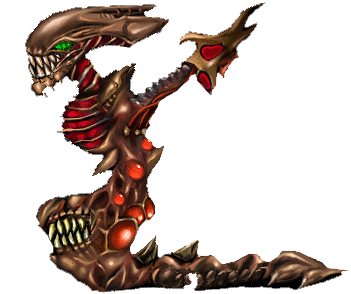
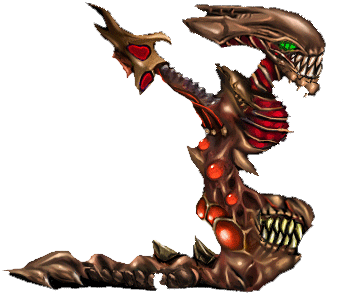
implementaçao de funcoes do boss

diff --git a/TDJ_ProjectoFinal/TDJ_ProjectoFinal/entidades/NPC.cs b/TDJ_ProjectoFinal/TDJ_ProjectoFinal/entidades/NPC.cs
@@ -14,7 +14,7 @@ namespace TDJ_ProjectoFinal.entidades
     {
         Hunter,
         Bomber,
-        Mothership
+        Mothership,
     }
 
     public class NPC : FlyingEntity
@@ -28,6 +28,7 @@ namespace TDJ_ProjectoFinal.entidades
         public NPC(ContentManager contents, string assetName, TipoNave tipoNave, int direcao, float Scl, Random random) 
             : base(contents, assetName)
         {
+            
             base.spriteEffects = SpriteEffects.FlipHorizontally;
             this.tipoNave = tipoNave;
             this.Scl(Scl);
@@ -75,7 +76,8 @@ namespace TDJ_ProjectoFinal.entidades
                     
                     break;
                 case TipoNave.Mothership:
-                    base.position.X -= Camera.speed / 4;
+                    base.position.Y = (float)Math.Cos(posY) + 0.1f;
+                    //base.position.X = Camera.worldWidth;
                     break;
                 default:
                     base.position.X -= Camera.speed;
@@ -96,11 +98,22 @@ namespace TDJ_ProjectoFinal.entidades
 
             if (contador >= shootTime)
             {
-                if (this.tipoNave == TipoNave.Hunter || this.tipoNave == TipoNave.Mothership)
+              
+                if (this.tipoNave == TipoNave.Hunter || this.tipoNave==TipoNave.Mothership)
                 {
-                    //Caças e Nave Mãe disparam balas
-                    scene.AddSprite(new Bala(this.cManager, "balainimigo", -1, OrigemBala.inimigo, DireccaoBala.EmFrente).Scl(0.09f).
-                        At(new Vector2(position.X - 0.4f, position.Y - 0.05f)));
+                    if (this.tipoNave == TipoNave.Mothership)
+                    {
+                        //scene.AddSprite(new Bala(this.cManager, "balainimigo", 1, OrigemBala.boss, DireccaoBala.EmFrente).Scl(0.09f).
+                          //  At(new Vector2(position.X - 0.4f, position.Y - 0.05f)));
+                        scene.AddInimigo(new Missil(this.cManager, "missil", TipoMissil.Teleguiado, -1, OrigemBala.inimigo, this.scene.player).Scl(0.15f).
+                            At(this.position));
+                    }
+                    else
+                    {
+                        //Caças e Nave Mãe disparam balas
+                        scene.AddSprite(new Bala(this.cManager, "balainimigo", -1, OrigemBala.inimigo, DireccaoBala.EmFrente).Scl(0.09f).
+                            At(new Vector2(position.X - 0.4f, position.Y - 0.05f)));
+                    }
                 }
                 else
                 {

diff --git a/TDJ_ProjectoFinal/TDJ_ProjectoFinal/Game1.cs b/TDJ_ProjectoFinal/TDJ_ProjectoFinal/Game1.cs
@@ -136,7 +136,7 @@ namespace TDJ_ProjectoFinal
                     
                 }
             }
-
+            //muda para cena3
             if(Camera.target.X >= 25f && Cenas[1].active==true)
             {
                 player.position.X += 0.02f;
@@ -147,8 +147,15 @@ namespace TDJ_ProjectoFinal
                     cena3();
                 }
             }
-            
-       
+
+
+            if (Cenas.Count == 3)
+            {
+                if (Cenas[2].active == true && Camera.target.X >= 2f)
+                {
+                    Camera.speed = 0f;
+                }
+            }
 
             base.Update(gameTime);
         }
@@ -231,7 +238,7 @@ namespace TDJ_ProjectoFinal
 
             Cenas[2].AddSprite(new Sprite(Content, "fundoFinal").Scl(45f).
                At(new Vector2(Camera.worldWidth, 0f)));
-            Cenas[2].AddInimigo(new Sprite(Content, "boss").Scl(2f).At(new Vector2(Camera.worldWidth,0f)));
+            Cenas[2].AddInimigo(new NPC(Content, "boss",TipoNave.Mothership,0,2f,random).At(new Vector2(3f,0f)));
             player = new Player(Content, "nave", TipoBala.Simples);
             Cenas[2].AddSprite(player.Scl(0.62f));
             player.position.X = Camera.target.X - (Camera.worldWidth / 2) + 0.1f;

diff --git a/TDJ_ProjectoFinal/TDJ_ProjectoFinal/entidades/Bala.cs b/TDJ_ProjectoFinal/TDJ_ProjectoFinal/entidades/Bala.cs
@@ -20,7 +20,8 @@ namespace TDJ_ProjectoFinal
     public enum OrigemBala
     {
         inimigo,
-        player
+        player,
+        boss
     }
     class Bala : FlyingEntity
     {
@@ -34,6 +35,9 @@ namespace TDJ_ProjectoFinal
             : base(contents, assetName)
         {
             base.spriteEffects = direccao > 0 ? SpriteEffects.None : SpriteEffects.FlipHorizontally;
+            if (origemBala == OrigemBala.boss)
+                this.speed = -0.05f;
+            else
             this.speed = Camera.speed * 9;
             this.direccaobala = direccaobala;
             this.direccao = direccao;
